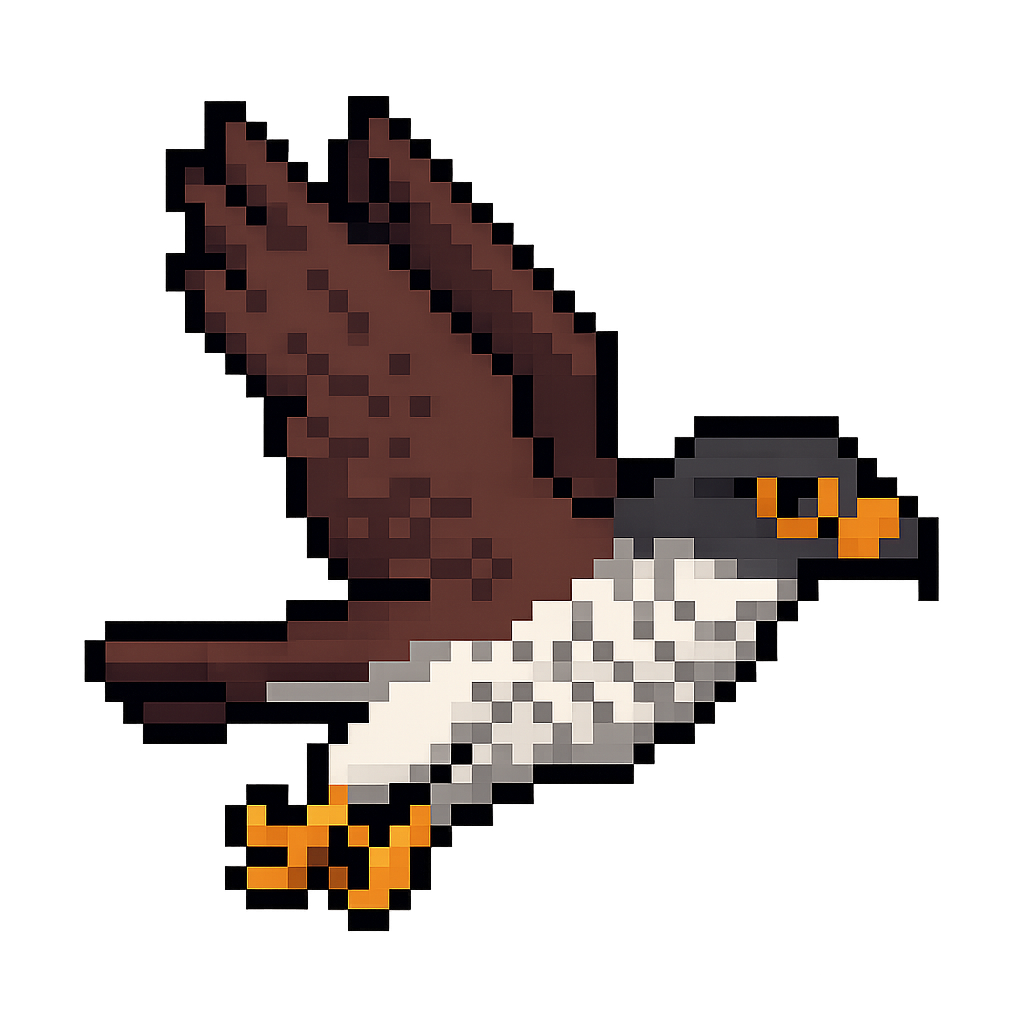
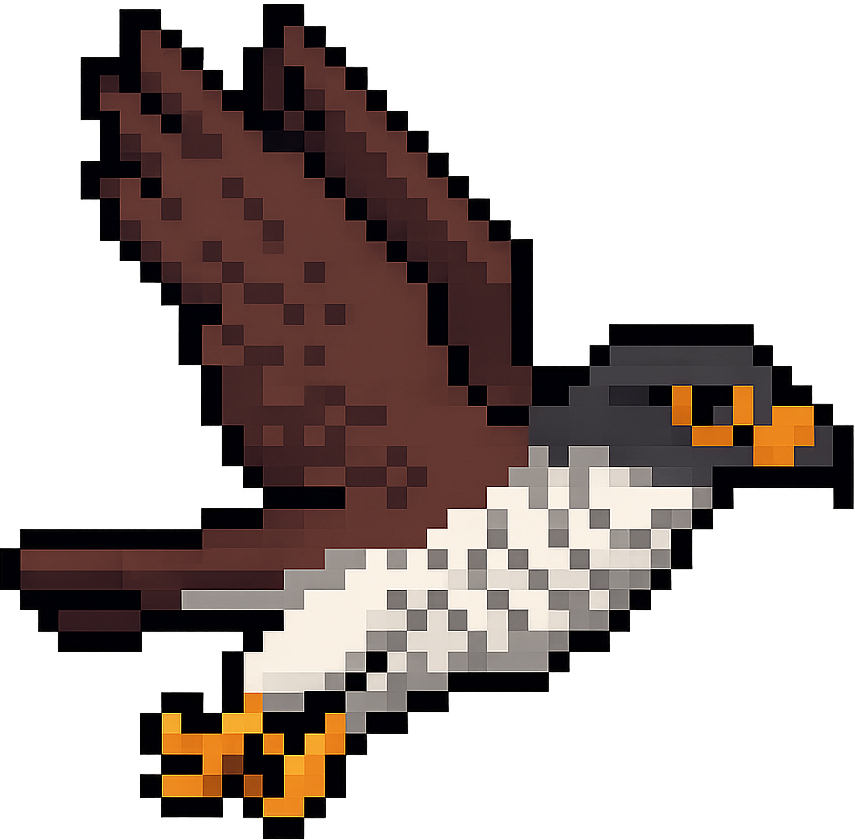
20250605_修正② ・ヒットボックス導入

diff --git a/js/player.js b/js/player.js
@@ -4,19 +4,36 @@ class Player {
     this.adaptToCanvasSize(canvasWidth, canvasHeight);
     this.dy = 0; // 縦方向移動速度
     this.life = 0; // ライフ初期値
+    this.hitBoxMargin = 0.2; // ヒットボックス縮小用マージン
 
     // 画像の読み込み
     this.image = new Image(); // 組み込みクラス
     this.image.src = "./images/ootaka.png";
+
+    // サイズ等パラメータ指定
+    this.image.onload = () => {
+      // onloadで読み込み後でないと取得できない
+      this.aspectRatio = this.image.naturalWidth / this.image.naturalHeight; // 元画像のアスペクト比
+      this.adaptToCanvasSize(canvasWidth, canvasHeight);
+    };
   }
 
   // キャンバスサイズに合わせたパラメータ設定
   adaptToCanvasSize(w, h) {
-    this.width = w * 0.08;
-    this.height = h * 0.2;
-    this.speed = h * 0.015; // 移動速さ（絶対値）
-    this.x = w * 0.15; // 画面高さの1%を1フレームあたりの速度とする
+    this.scale = 0.35;
+    this.height = h * this.scale;
+    this.width = this.height * this.aspectRatio;
+    this.x = w * 0.15;
     this.y = h * 0.5 - this.height / 2;
+    this.speed = h * 0.02;
+  }
+
+  setHitBox() {
+    // ヒットボックス
+    this.hitBoxX = this.x + (this.width * this.hitBoxMargin) / 2;
+    this.hitBoxY = this.y + (this.height * this.hitBoxMargin) / 2;
+    this.hitBoxW = this.width * (1 - this.hitBoxMargin);
+    this.hitBoxH = this.height * (1 - this.hitBoxMargin);
   }
 
   update(canvasHeight) {
@@ -28,6 +45,9 @@ class Player {
     if (this.y + this.height > canvasHeight * 0.9) {
       this.y = canvasHeight * 0.9 - this.height; // 下端！
     }
+
+    // ヒットボックス計算
+    this.setHitBox();
   }
 
   draw(ctx) {
@@ -39,6 +59,10 @@ class Player {
       ctx.fillStyle = "white";
       ctx.fillRect(this.x, this.y, this.width, this.height);
     }
+
+    // ヒットボックス（テスト用）
+    ctx.strokeStyle = "red";
+    ctx.strokeRect(this.hitBoxX, this.hitBoxY, this.hitBoxW, this.hitBoxH);
   }
 
   moveUp() {
@@ -55,21 +79,22 @@ class Player {
 
   // 衝突判定
   isColliding(obj) {
+    // 判定
     return (
-      this.x < obj.x + obj.width * 0.95 && // （player左端）が（対象物右端から5%左）より左
-      this.x + this.width * 0.95 > obj.x * 1.05 && // （player右端から5%左）が（対象物左端から5%右）より右
-      this.y < obj.y + obj.height && // （player上端）が（対象物下端）より上
-      this.y + this.height * 0.95 > obj.y * 1.05 // （player下端から5%上）が（対象物上端から5%下）より下
+      this.hitBoxX < obj.hitBoxX + obj.hitBoxW &&
+      this.hitBoxX + this.hitBoxW > obj.hitBoxX &&
+      this.hitBoxY < obj.hitBoxY + obj.hitBoxH &&
+      this.hitBoxY + this.hitBoxH > obj.hitBoxY
     );
   }
 
   // 衝突検知時処理
   handleCollision(obj) {
     if (obj.type === "food") {
-      this.#increaseLife();
+      this._increaseLife();
       return "food";
     } else if (obj.type === "obstacle") {
-      this.#decreaselife();
+      this._decreaselife();
       return "obstacle";
     }
     return null;
@@ -80,13 +105,13 @@ class Player {
   }
 
   // ライフ増加（Private）
-  #increaseLife(amount = 1) {
+  _increaseLife(amount = 1) {
     this.life = Math.min(3, this.life + amount); // 最大3
   }
 
   // ライフ減少（Private）
-  #decreaselife(amount = 1) {
+  _decreaselife(amount = 1) {
     this.life = 0; // 障害物にぶつかったら0にする
-    // this.life = Math.max(0, this.life - amount); // 最小0
+    // this.life = Math.mthis.hitBoxX(0, this.life - amount); // 最小0
   }
 }

diff --git a/js/game.js b/js/game.js
@@ -4,6 +4,7 @@ class Game {
     this.canvas = canvas; // canavsインスタンス
     this.ctx = canvas.getContext("2d"); // canvasに描画を行うインターフェース
 
+    // 各インスタンス生成
     this.background = new Background(this.canvas.width, this.canvas.height);
     this.player = new Player(this.canvas.width, this.canvas.height);
     this.obstacle = this.createRandomObstacle();
@@ -20,7 +21,7 @@ class Game {
 
     // タイマー
     this.gameDuration = 30; // ゲーム時間30秒
-    this.remainingTIme = this.gameDuration;
+    this.remainingTime = this.gameDuration;
     this.startTime = null;
     this.isGameEnded = false; // ゲーム終了フラグ
   }
@@ -30,8 +31,8 @@ class Game {
     this.width = newWidth;
     this.height = newHeight;
     this.background.adaptToCanvasSize(this.width, this.height);
-    this.player.adaptToCanvasSize(this.width, this.height);
     this.obstacle.adaptToCanvasSize(this.width, this.height);
+    this.player.adaptToCanvasSize(this.width, this.height);
   }
 
   // 入力イベント
@@ -41,7 +42,7 @@ class Game {
     document.addEventListener(
       "keydown",
       function (e) {
-        console.log("keyDown");
+        // console.log("keyDown");
         if (e.key === "ArrowUp") {
           this.player.moveUp();
         } else if (e.key === "ArrowDown") {
@@ -53,7 +54,7 @@ class Game {
     // キーボードイベント（キーを離した時）
     // アロー関数（ES6以降はこっち推奨。thisは外側のインスタンスを引き継ぐ）
     document.addEventListener("keyup", (e) => {
-      console.log("keyUp");
+      // console.log("keyUp");
       if (e.key === "ArrowUp" || e.key === "ArrowDown") {
         this.player.stop();
       }
@@ -62,8 +63,8 @@ class Game {
 
   // gameLoop(),update(),draw()はゲーム開発定番の設計パターン
   start() {
-    this.startTIme = Date.now();
-    this.remainingTIme = this.gameDuration;
+    this.startTime = Date.now();
+    this.remainingTime = this.gameDuration;
     this.gameLoop();
   }
 
@@ -79,18 +80,18 @@ class Game {
   }
 
   update() {
-    const elapsed = (Date.now() - this.startTIme) / 1000; // 経過時間(ms)
-    this.remainingTIme = this.gameDuration - elapsed;
+    const elapsed = (Date.now() - this.startTime) / 1000; // 経過時間(ms)
+    this.remainingTime = this.gameDuration - elapsed;
 
     // ゲーム終了時
-    // if (this.isGameEnded === false && this.remainingTIme <= 0) {
-    //   this.endGame();
-    //   return;
-    // }
+    if (this.isGameEnded === false && this.remainingTime <= 0) {
+      this.endGame();
+      return;
+    }
 
     this.background.update();
-    this.player.update(this.height);
     this.obstacle.update();
+    this.player.update(this.height);
 
     // 衝突チェック
     if (this.player.isColliding(this.obstacle)) {
@@ -115,8 +116,8 @@ class Game {
     this.ctx.fillStyle = "#004466";
     this.ctx.fillRect(0, 0, this.canvas.width, this.canvas.height);
     this.background.draw(this.ctx);
-    this.player.draw(this.ctx);
     this.obstacle.draw(this.ctx);
+    this.player.draw(this.ctx);
     this.drawLife();
   }
 

diff --git a/js/obstacle.js b/js/obstacle.js
@@ -3,6 +3,7 @@ class Obstacle {
     this.kind = kind;
     // food以外はobstacleを代入
     this.type = kind === "food" ? "food" : "obstacle";
+    this.hitBoxMargin = 0.2; // ヒットボックス縮小用マージン
 
     // 種類ごとの画像を指定
     this.image = new Image();
@@ -69,13 +70,22 @@ class Obstacle {
         this.height = h * this.scale;
         this.width = this.height * this.aspectRatio;
         this.y = h * 0.1;
-        this.speed = w * 0.011;
+        this.speed = w * 0.013;
         break;
     }
   }
 
+  setHitBox() {
+    // ヒットボックス
+    this.hitBoxX = this.x + (this.width * this.hitBoxMargin) / 2;
+    this.hitBoxY = this.y + (this.height * this.hitBoxMargin) / 2;
+    this.hitBoxW = this.width * (1 - this.hitBoxMargin);
+    this.hitBoxH = this.height * (1 - this.hitBoxMargin);
+  }
+
   update() {
     this.x -= this.speed;
+    this.setHitBox(); // ヒットボックス計算
   }
 
   draw(ctx) {
@@ -85,5 +95,9 @@ class Obstacle {
       ctx.fillStyle = this.kind === "food" ? "yellow" : "red";
       ctx.fillRect(this.x, this.y, this.width, this.height);
     }
+
+    // ヒットボックス（テスト用）
+    ctx.strokeStyle = "red";
+    ctx.strokeRect(this.hitBoxX, this.hitBoxY, this.hitBoxW, this.hitBoxH);
   }
 }

diff --git a/js/main.js b/js/main.js
@@ -2,7 +2,7 @@
 // 初期表示時と画面サイズ変更時にGameクラスに通知する
 
 const canvas = document.getElementById("gameCanvas");
-const game = new Game(canvas);
+const game = new Game(canvas); // Gameクラスのインスタンス生成
 
 // 画面サイズ変更時処理
 function resizeCanvas() {

diff --git a/README.md b/README.md
@@ -24,3 +24,5 @@
 - アロー関数
 
   通常の関数とアロー関数で`this` が参照するインスタンスが異なることに戸惑いましたが、アロー関数を使うことで、明示することなく外側のインスタンスを引き継げることを理解しました。
+
+- 同期・非同期
